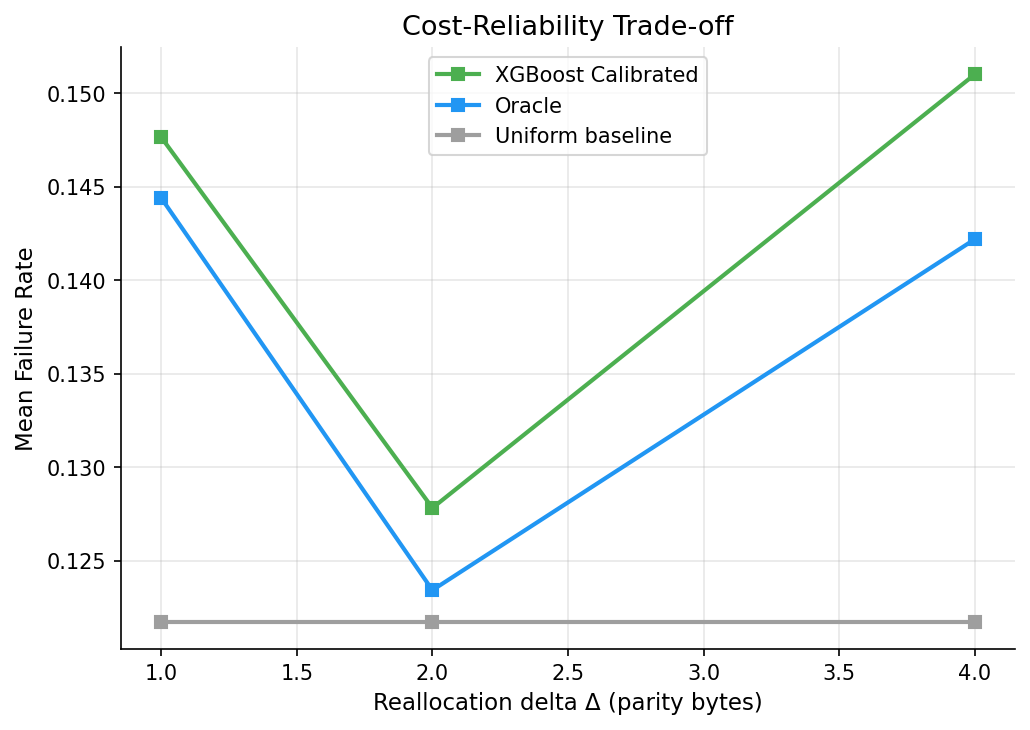
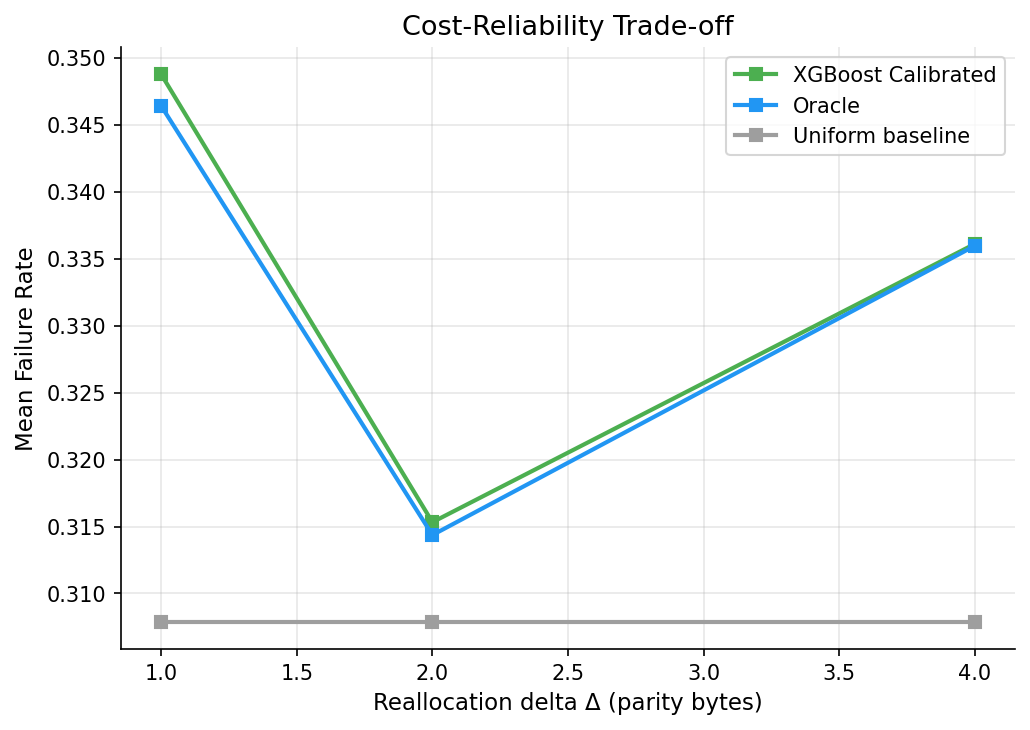
Expand to 28 configs: add sub15/18/20, fix distribution shift and ablation
- Add substitution rates 15%, 18%, 20% (7 rates total, 28 configs)
- Fix distribution_shift.py: replace degenerate transfer conditions with
  informative ones (9->12%, 9->15%, 9->20%, 12->18%)
- Fix ablation.py: skip single-class configs (100% failure rate) gracefully
- Add monitor_pipeline.ps1: watchdog script for long pipeline runs
- Update README: regime map, transfer radius result, updated counts
- Add 12 new ablation CSVs (sub15/18/20 configs)
- Update 4 distribution shift CSVs with new transfer conditions
- Regenerate figures with expanded config set

diff --git a/analysis/ablation.py b/analysis/ablation.py
@@ -90,6 +90,14 @@ def run_ablation(
 
     results = {}
 
+    # Guard: skip ablation if training labels are single-class
+    y_tr_bin_check = (y_train >= 0.5).astype(int)
+    if len(np.unique(y_tr_bin_check)) < 2:
+        if verbose:
+            label = 'failure' if y_tr_bin_check[0] == 1 else 'success'
+            print(f"  [ablation] Single-class labels (all {label}) — skipping ablation")
+        return {}
+
     # Full-feature baseline
     if verbose:
         print("  [ablation] Full features (baseline)...")
@@ -208,7 +216,8 @@ def main():
         X_tr, y_tr, X_val, y_val, X_te, y_te, feat_names, cfg,
         seed=cfg['random_seed'], verbose=True
     )
-    print_ablation_table(results)
+    if results:
+        print_ablation_table(results)
 
     out_path = os.path.join(args.out, f'{args.key}_ablation.csv')
     save_ablation_results(results, out_path)

diff --git a/analysis/distribution_shift.py b/analysis/distribution_shift.py
@@ -38,9 +38,10 @@ sys.path.insert(0, os.path.join(os.path.dirname(__file__), '..', 'allocation'))
 
 
 TRANSFER_CONDITIONS = [
-    (0.01, 0.05, 'mild'),
-    (0.05, 0.12, 'moderate'),
-    (0.01, 0.12, 'severe'),
+    (0.09, 0.12, 'mild'),
+    (0.09, 0.15, 'moderate'),
+    (0.09, 0.20, 'severe'),
+    (0.12, 0.18, 'moderate_high'),
 ]
 
 

diff --git a/README.md b/README.md
@@ -22,15 +22,25 @@ The pipeline covers the full experimental workflow:
 
 ## Experimental Design
 
-The pipeline runs across **16 dataset configurations** (4 × 2 × 2):
+The pipeline runs across **28 dataset configurations** (7 × 2 × 2):
 
 | Axis | Values |
 |------|--------|
-| Substitution rate | 1%, 5%, 9%, 12% |
+| Substitution rate | 1%, 5%, 9%, 12%, 15%, 18%, 20% |
 | Coverage depth (K) | K=5, K=3 |
 | Encoding scheme | Simple (2-bit), Constrained (R∞-P8) |
 
 Each configuration generates 2,000 oligos, simulates 30 Monte Carlo channel runs per oligo, and records failure frequency as the ML target.
+
+### Failure Regime Map
+
+Across the 28 configurations, three distinct regimes emerge:
+
+| Regime | Configs | Failure Rate | ML useful? |
+|--------|---------|-------------|------------|
+| Under-failure | sub01–05 K=3, K=5 below 15% sub | < 2% | No — uniform allocation sufficient |
+| **Sweet spot** | **sub09–15 K=3, sub15–20 K=5** | **5–90%** | **Yes — AUROC 0.77–0.999** |
+| Over-failure | sub18–20 K=3 | ~100% | No — max parity still insufficient |
 
 ---
 
@@ -100,10 +110,10 @@ python run_pipeline.py --status
 | Stage | Description |
 |-------|-------------|
 | `datasets` | Generate sequences, simulate channel, extract features |
-| `train` | Train and calibrate all models across 16 configs |
+| `train` | Train and calibrate all models across 28 configs |
 | `gate_check` | Validate model quality before allocation experiments |
-| `allocation` | Run adaptive vs. uniform vs. oracle allocation (48 experiments) |
-| `ablation` | Feature group ablation across all 16 configs |
+| `allocation` | Run adaptive vs. uniform vs. oracle allocation (84 experiments) |
+| `ablation` | Feature group ablation across all 28 configs |
 | `distribution_shift` | Cross-substitution-regime transfer robustness tests |
 | `figures` | Generate all paper figures |
 
@@ -115,25 +125,38 @@ After the full pipeline completes:
 
 ```
 results/
-├── ablation/            # 16 CSVs — per-group metric deltas
+├── allocation/          # 84 NPZ files — FRR arrays (30 MC runs each)
+├── ablation/            # 28 CSVs — per-group metric deltas
 ├── distribution_shift/  # 4 CSVs  — ECE/Brier/PR-AUC under transfer
 └── figures/
     ├── fig2_reliability_diagrams.png
     ├── fig3_shap_importance.png
     ├── fig4_frr_vs_delta.png
-    ├── fig5_distribution_shift.png
     ├── fig_s1_feature_distributions.png
     └── fig_s4_cost_reliability.png
 ```
 
 **Key metric — Failure Reduction Rate (FRR)**: how much the adaptive allocation reduces failures vs. the uniform baseline, at the same total parity budget.
 
+### Distribution Shift Transfer Results
+
+Models are trained on one substitution regime and evaluated on another without retraining:
+
+| Transfer | AUROC | Robust? |
+|----------|-------|---------|
+| 9% → 12% (mild) | 0.997 | Yes |
+| 9% → 15% (moderate) | 0.878 | No |
+| 9% → 20% (severe) | 0.500 | No |
+| 12% → 18% | 0.500 | No |
+
+Models transfer robustly within one adjacent substitution step (~3%) but fail beyond that, defining a practical **transfer radius** for deployment without retraining.
+
 ---
 
 ## Key Design Decisions
 
 - **Calibration matters**: raw model scores are used directly as risk values in the allocation mechanism, so probability calibration (Platt scaling for XGBoost, isotonic for RF) is critical — not just discrimination
-- **Single-class guard**: at low substitution rates and high coverage, virtually no sequences fail. A `DummyClassifier` is used in these cases rather than forcing a meaningless classifier
+- **Single-class guard**: at extreme substitution rates (both too low and too high), all sequences either pass or fail. A `DummyClassifier` is used at the low end; ablation is skipped entirely at the high end (100% failure rate)
 - **Budget neutrality**: the allocation mechanism strictly enforces that total parity bytes added equals total parity bytes removed — no free lunch
 - **Monte Carlo evaluation**: FRR is estimated over 30 independent channel simulation runs per configuration to account for stochastic variation
 
